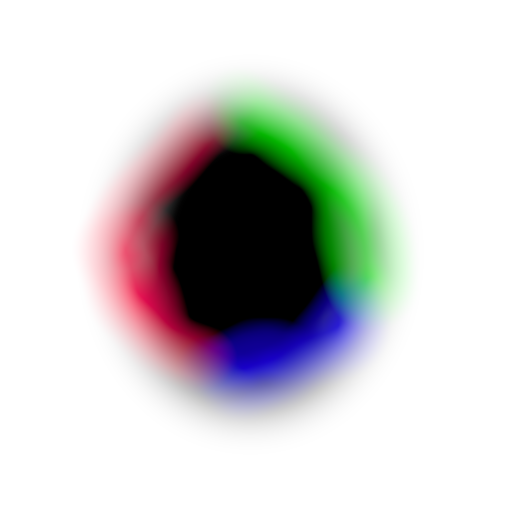
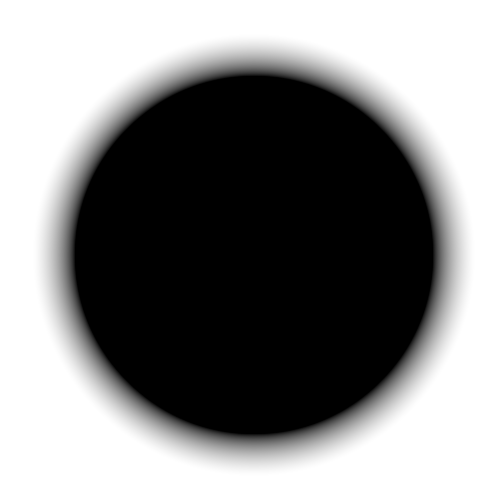
Halo interaction

diff --git a/Main/src-2015/src/Lucarne/entity.cpp b/Main/src-2015/src/Lucarne/entity.cpp
@@ -271,6 +271,7 @@ Entity *entity_create(string name, string script, v2i pos)
 		fixtureDef.friction = 0.0f;
 		fixtureDef.restitution = 0.0f;
 
+		//Foot & head sensors
 		box.SetAsBox(szx - in_meters(2), in_meters(2), b2Vec2(ctrx, ctry - szy - in_meters(2)), in_meters(0));
 		fixtureDef.isSensor = true;
 		b2Fixture* footSensorFixture = e->body->CreateFixture(&fixtureDef);
@@ -280,6 +281,18 @@ Entity *entity_create(string name, string script, v2i pos)
 		fixtureDef.isSensor = true;
 		b2Fixture* headSensorFixture = e->body->CreateFixture(&fixtureDef);
 		headSensorFixture->SetUserData((void*)203);
+
+		//Halo
+		b2CircleShape halo;
+		halo.m_p.Set(ctrx, ctry);
+		halo.m_radius = in_meters(190.0f);
+		fixtureDef.shape = &halo;
+		fixtureDef.density = 1.0f;
+		fixtureDef.friction = 0.6f;
+		fixtureDef.restitution = 0.5f;
+		fixtureDef.isSensor = false;
+		fixtureDef.userData = ((void*)300);
+		e->body->CreateFixture(&fixtureDef);
 	} else {
 		fixtureDef.userData = (void*)userDataCount;
 		userDataCount += 1;

diff --git a/Main/src-2015/src/Lucarne/physics.cpp b/Main/src-2015/src/Lucarne/physics.cpp
@@ -69,7 +69,13 @@ public:
 		void *dA = fA->GetUserData();
 		void *dB = fB->GetUserData();
 		if (dA != NULL && dB != NULL) {
-			std::cerr << (int)dA / 100 << " " << (int)dB / 100 << std::endl;
+			if (((int)dA == 300 && (int)dB != 101) || ((int)dB == 300 && (int)dA != 101)) {
+				contact->SetEnabled(false);
+				return;
+			}
+			else if (((int)dA == 300 && (int)dB == 101) || ((int)dB == 300 && (int)dA == 101)) {
+				return;
+			}
 			if ((int)dA / 100 != (int)dB / 100) {
 				contact->SetEnabled(false);
 			}

diff --git a/Main/src-2015/src/Lucarne/background.cpp b/Main/src-2015/src/Lucarne/background.cpp
@@ -162,6 +162,7 @@ void background_draw(Background *bkg, time_t lastFrame, v2i playerpos)
 
 	// draw first world
 	background_draw(bkg, lastFrame, 0, false, playerpos);
+	//phy_debug_draw();
 	////////////////////
 
 	// composite both
